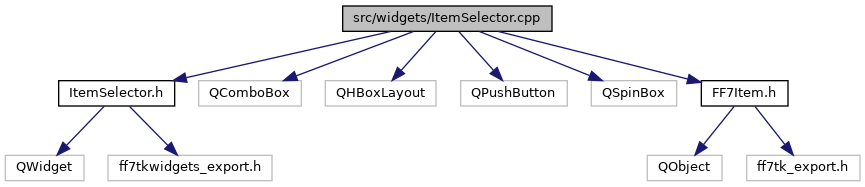
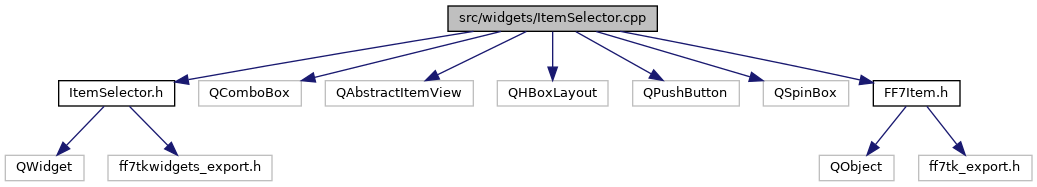
Deploying to gh-pages from @ sithlord48/ff7tk@d6258068dd9e8fa803aad83f0e25e3d419103174 🚀

diff --git a/ItemList_8h_source.html b/ItemList_8h_source.html
@@ -68,7 +68,7 @@ $(function() {
 <div class="title">ItemList.h</div>  </div>
 </div><!--header-->
 <div class="contents">
-<a href="ItemList_8h.html">Go to the documentation of this file.</a><div class="fragment"><div class="line"><a name="l00001"></a><span class="lineno">    1</span>&#160;<span class="comment">/****************************************************************************/</span></div><div class="line"><a name="l00002"></a><span class="lineno">    2</span>&#160;<span class="comment">//    copyright 2012 - 2022 Chris Rizzitello &lt;sithlord48@gmail.com&gt;         //</span></div><div class="line"><a name="l00003"></a><span class="lineno">    3</span>&#160;<span class="comment">//                                                                          //</span></div><div class="line"><a name="l00004"></a><span class="lineno">    4</span>&#160;<span class="comment">//    This file is part of FF7tk                                            //</span></div><div class="line"><a name="l00005"></a><span class="lineno">    5</span>&#160;<span class="comment">//                                                                          //</span></div><div class="line"><a name="l00006"></a><span class="lineno">    6</span>&#160;<span class="comment">//    FF7tk is free software: you can redistribute it and/or modify         //</span></div><div class="line"><a name="l00007"></a><span class="lineno">    7</span>&#160;<span class="comment">//    it under the terms of the GNU General Public License as published by  //</span></div><div class="line"><a name="l00008"></a><span class="lineno">    8</span>&#160;<span class="comment">//    the Free Software Foundation, either version 3 of the License, or     //</span></div><div class="line"><a name="l00009"></a><span class="lineno">    9</span>&#160;<span class="comment">//    (at your option) any later version.                                   //</span></div><div class="line"><a name="l00010"></a><span class="lineno">   10</span>&#160;<span class="comment">//                                                                          //</span></div><div class="line"><a name="l00011"></a><span class="lineno">   11</span>&#160;<span class="comment">//    FF7tk is distributed in the hope that it will be useful,              //</span></div><div class="line"><a name="l00012"></a><span class="lineno">   12</span>&#160;<span class="comment">//    but WITHOUT ANY WARRANTY; without even the implied warranty of        //</span></div><div class="line"><a name="l00013"></a><span class="lineno">   13</span>&#160;<span class="comment">//    MERCHANTABILITY or FITNESS FOR A PARTICULAR PURPOSE.  See the         //</span></div><div class="line"><a name="l00014"></a><span class="lineno">   14</span>&#160;<span class="comment">//    GNU General Public License for more details.                          //</span></div><div class="line"><a name="l00015"></a><span class="lineno">   15</span>&#160;<span class="comment">/****************************************************************************/</span></div><div class="line"><a name="l00016"></a><span class="lineno">   16</span>&#160;<span class="preprocessor">#pragma once</span></div><div class="line"><a name="l00017"></a><span class="lineno">   17</span>&#160;</div><div class="line"><a name="l00018"></a><span class="lineno">   18</span>&#160;<span class="preprocessor">#include &lt;QTableWidget&gt;</span></div><div class="line"><a name="l00019"></a><span class="lineno">   19</span>&#160;<span class="preprocessor">#include &lt;QEvent&gt;</span></div><div class="line"><a name="l00020"></a><span class="lineno">   20</span>&#160;</div><div class="line"><a name="l00021"></a><span class="lineno">   21</span>&#160;<span class="preprocessor">#ifndef ff7tkwidgets_export_h</span></div><div class="line"><a name="l00022"></a><span class="lineno">   22</span>&#160;<span class="preprocessor">    #include &lt;ff7tkwidgets_export.h&gt;</span></div><div class="line"><a name="l00023"></a><span class="lineno">   23</span>&#160;<span class="preprocessor">#endif</span></div><div class="line"><a name="l00024"></a><span class="lineno">   24</span>&#160;</div><div class="line"><a name="l00025"></a><span class="lineno">   25</span>&#160;<span class="keyword">class </span><a class="code" href="classItemPreview.html">ItemPreview</a>;</div><div class="line"><a name="l00026"></a><span class="lineno">   26</span>&#160;<span class="keyword">class </span><a class="code" href="classItemSelector.html">ItemSelector</a>;</div><div class="line"><a name="l00027"></a><span class="lineno">   27</span>&#160;</div><div class="line"><a name="l00028"></a><span class="lineno"><a class="line" href="classItemList.html">   28</a></span>&#160;<span class="keyword">class </span>FF7TKWIDGETS_EXPORT <a class="code" href="classItemList.html">ItemList</a> : <span class="keyword">public</span> QTableWidget</div><div class="line"><a name="l00029"></a><span class="lineno">   29</span>&#160;{</div><div class="line"><a name="l00030"></a><span class="lineno">   30</span>&#160;    Q_OBJECT</div><div class="line"><a name="l00031"></a><span class="lineno">   31</span>&#160;<span class="keyword">public</span>:</div><div class="line"><a name="l00032"></a><span class="lineno">   32</span>&#160;    <span class="keyword">explicit</span> <a class="code" href="classItemList.html">ItemList</a>(QWidget *parent = <span class="keyword">nullptr</span>);</div><div class="line"><a name="l00033"></a><span class="lineno">   33</span>&#160;<span class="keyword">protected</span>:</div><div class="line"><a name="l00034"></a><span class="lineno">   34</span>&#160;    <span class="keywordtype">bool</span> eventFilter(QObject *, QEvent *);</div><div class="line"><a name="l00035"></a><span class="lineno">   35</span>&#160;    <span class="keywordtype">void</span> changeEvent(QEvent *e);</div><div class="line"><a name="l00036"></a><span class="lineno">   36</span>&#160;signals:</div><div class="line"><a name="l00037"></a><span class="lineno">   37</span>&#160;    <span class="keywordtype">void</span> itemsChanged(QList&lt;quint16&gt; items);</div><div class="line"><a name="l00038"></a><span class="lineno">   38</span>&#160;<span class="keyword">public</span> slots:</div><div class="line"><a name="l00039"></a><span class="lineno">   39</span>&#160;    <span class="keywordtype">void</span> setItems(<span class="keyword">const</span> QList&lt;quint16&gt; &amp;items);</div><div class="line"><a name="l00040"></a><span class="lineno">   40</span>&#160;    <span class="keywordtype">void</span> setMaximumItemQty(<span class="keywordtype">int</span> maxQty);</div><div class="line"><a name="l00041"></a><span class="lineno">   41</span>&#160;    <span class="keywordtype">void</span> setEditableItemCombo(<span class="keywordtype">bool</span>);</div><div class="line"><a name="l00042"></a><span class="lineno">   42</span>&#160;<span class="keyword">private</span> slots:</div><div class="line"><a name="l00043"></a><span class="lineno">   43</span>&#160;    <span class="keywordtype">void</span> listSelectionChanged(<span class="keywordtype">int</span> row, <span class="keywordtype">int</span> colum, <span class="keywordtype">int</span> prevRow, <span class="keywordtype">int</span> prevColum);</div><div class="line"><a name="l00044"></a><span class="lineno">   44</span>&#160;    <span class="keywordtype">void</span> itemSelector_changed(quint16);</div><div class="line"><a name="l00045"></a><span class="lineno">   45</span>&#160;<span class="keyword">private</span>:</div><div class="line"><a name="l00046"></a><span class="lineno">   46</span>&#160;    <span class="keywordtype">void</span> itemupdate();</div><div class="line"><a name="l00047"></a><span class="lineno">   47</span>&#160;    <span class="keywordtype">void</span> updateItem(<span class="keywordtype">int</span> row);</div><div class="line"><a name="l00048"></a><span class="lineno">   48</span>&#160;    <span class="keywordtype">void</span> destroyTooltip();</div><div class="line"><a name="l00049"></a><span class="lineno">   49</span>&#160;    <span class="keywordtype">void</span> destroySelector();</div><div class="line"><a name="l00050"></a><span class="lineno">   50</span>&#160;    <a class="code" href="classItemSelector.html">ItemSelector</a> *itemSelector = <span class="keyword">nullptr</span>;</div><div class="line"><a name="l00051"></a><span class="lineno">   51</span>&#160;    <a class="code" href="classItemPreview.html">ItemPreview</a> *itemPreview = <span class="keyword">nullptr</span>;</div><div class="line"><a name="l00052"></a><span class="lineno">   52</span>&#160;    QList&lt;quint16&gt; itemlist;</div><div class="line"><a name="l00053"></a><span class="lineno">   53</span>&#160;    <span class="keywordtype">int</span> itemQtyLimit;</div><div class="line"><a name="l00054"></a><span class="lineno">   54</span>&#160;    <span class="keywordtype">bool</span> createdSelector;</div><div class="line"><a name="l00055"></a><span class="lineno">   55</span>&#160;    <span class="keywordtype">bool</span> createdTooltip;</div><div class="line"><a name="l00056"></a><span class="lineno">   56</span>&#160;    <span class="keywordtype">bool</span> editableItemCombo;</div><div class="line"><a name="l00057"></a><span class="lineno">   57</span>&#160;};</div><div class="ttc" id="classItemSelector_html"><div class="ttname"><a href="classItemSelector.html">ItemSelector</a></div><div class="ttdef"><b>Definition:</b> ItemSelector.h:28</div></div>
+<a href="ItemList_8h.html">Go to the documentation of this file.</a><div class="fragment"><div class="line"><a name="l00001"></a><span class="lineno">    1</span>&#160;<span class="comment">/****************************************************************************/</span></div><div class="line"><a name="l00002"></a><span class="lineno">    2</span>&#160;<span class="comment">//    copyright 2012 - 2022 Chris Rizzitello &lt;sithlord48@gmail.com&gt;         //</span></div><div class="line"><a name="l00003"></a><span class="lineno">    3</span>&#160;<span class="comment">//                                                                          //</span></div><div class="line"><a name="l00004"></a><span class="lineno">    4</span>&#160;<span class="comment">//    This file is part of FF7tk                                            //</span></div><div class="line"><a name="l00005"></a><span class="lineno">    5</span>&#160;<span class="comment">//                                                                          //</span></div><div class="line"><a name="l00006"></a><span class="lineno">    6</span>&#160;<span class="comment">//    FF7tk is free software: you can redistribute it and/or modify         //</span></div><div class="line"><a name="l00007"></a><span class="lineno">    7</span>&#160;<span class="comment">//    it under the terms of the GNU General Public License as published by  //</span></div><div class="line"><a name="l00008"></a><span class="lineno">    8</span>&#160;<span class="comment">//    the Free Software Foundation, either version 3 of the License, or     //</span></div><div class="line"><a name="l00009"></a><span class="lineno">    9</span>&#160;<span class="comment">//    (at your option) any later version.                                   //</span></div><div class="line"><a name="l00010"></a><span class="lineno">   10</span>&#160;<span class="comment">//                                                                          //</span></div><div class="line"><a name="l00011"></a><span class="lineno">   11</span>&#160;<span class="comment">//    FF7tk is distributed in the hope that it will be useful,              //</span></div><div class="line"><a name="l00012"></a><span class="lineno">   12</span>&#160;<span class="comment">//    but WITHOUT ANY WARRANTY; without even the implied warranty of        //</span></div><div class="line"><a name="l00013"></a><span class="lineno">   13</span>&#160;<span class="comment">//    MERCHANTABILITY or FITNESS FOR A PARTICULAR PURPOSE.  See the         //</span></div><div class="line"><a name="l00014"></a><span class="lineno">   14</span>&#160;<span class="comment">//    GNU General Public License for more details.                          //</span></div><div class="line"><a name="l00015"></a><span class="lineno">   15</span>&#160;<span class="comment">/****************************************************************************/</span></div><div class="line"><a name="l00016"></a><span class="lineno">   16</span>&#160;<span class="preprocessor">#pragma once</span></div><div class="line"><a name="l00017"></a><span class="lineno">   17</span>&#160;</div><div class="line"><a name="l00018"></a><span class="lineno">   18</span>&#160;<span class="preprocessor">#include &lt;QTableWidget&gt;</span></div><div class="line"><a name="l00019"></a><span class="lineno">   19</span>&#160;<span class="preprocessor">#include &lt;QEvent&gt;</span></div><div class="line"><a name="l00020"></a><span class="lineno">   20</span>&#160;</div><div class="line"><a name="l00021"></a><span class="lineno">   21</span>&#160;<span class="preprocessor">#ifndef ff7tkwidgets_export_h</span></div><div class="line"><a name="l00022"></a><span class="lineno">   22</span>&#160;<span class="preprocessor">    #include &lt;ff7tkwidgets_export.h&gt;</span></div><div class="line"><a name="l00023"></a><span class="lineno">   23</span>&#160;<span class="preprocessor">#endif</span></div><div class="line"><a name="l00024"></a><span class="lineno">   24</span>&#160;</div><div class="line"><a name="l00025"></a><span class="lineno">   25</span>&#160;<span class="keyword">class </span><a class="code" href="classItemPreview.html">ItemPreview</a>;</div><div class="line"><a name="l00026"></a><span class="lineno">   26</span>&#160;<span class="keyword">class </span><a class="code" href="classItemSelector.html">ItemSelector</a>;</div><div class="line"><a name="l00027"></a><span class="lineno">   27</span>&#160;</div><div class="line"><a name="l00028"></a><span class="lineno"><a class="line" href="classItemList.html">   28</a></span>&#160;<span class="keyword">class </span>FF7TKWIDGETS_EXPORT <a class="code" href="classItemList.html">ItemList</a> : <span class="keyword">public</span> QTableWidget</div><div class="line"><a name="l00029"></a><span class="lineno">   29</span>&#160;{</div><div class="line"><a name="l00030"></a><span class="lineno">   30</span>&#160;    Q_OBJECT</div><div class="line"><a name="l00031"></a><span class="lineno">   31</span>&#160;<span class="keyword">public</span>:</div><div class="line"><a name="l00032"></a><span class="lineno">   32</span>&#160;    <span class="keyword">explicit</span> <a class="code" href="classItemList.html">ItemList</a>(QWidget *parent = <span class="keyword">nullptr</span>);</div><div class="line"><a name="l00033"></a><span class="lineno">   33</span>&#160;<span class="keyword">protected</span>:</div><div class="line"><a name="l00034"></a><span class="lineno">   34</span>&#160;    <span class="keywordtype">bool</span> eventFilter(QObject *, QEvent *);</div><div class="line"><a name="l00035"></a><span class="lineno">   35</span>&#160;    <span class="keywordtype">void</span> changeEvent(QEvent *e);</div><div class="line"><a name="l00036"></a><span class="lineno">   36</span>&#160;signals:</div><div class="line"><a name="l00037"></a><span class="lineno">   37</span>&#160;    <span class="keywordtype">void</span> itemsChanged(QList&lt;quint16&gt; items);</div><div class="line"><a name="l00038"></a><span class="lineno">   38</span>&#160;<span class="keyword">public</span> slots:</div><div class="line"><a name="l00039"></a><span class="lineno">   39</span>&#160;    <span class="keywordtype">void</span> setItems(<span class="keyword">const</span> QList&lt;quint16&gt; &amp;items);</div><div class="line"><a name="l00040"></a><span class="lineno">   40</span>&#160;    <span class="keywordtype">void</span> setMaximumItemQty(<span class="keywordtype">int</span> maxQty);</div><div class="line"><a name="l00041"></a><span class="lineno">   41</span>&#160;    <span class="keywordtype">void</span> setEditableItemCombo(<span class="keywordtype">bool</span>);</div><div class="line"><a name="l00042"></a><span class="lineno">   42</span>&#160;<span class="keyword">private</span> slots:</div><div class="line"><a name="l00043"></a><span class="lineno">   43</span>&#160;    <span class="keywordtype">void</span> listSelectionChanged(<span class="keywordtype">int</span> row, <span class="keywordtype">int</span> colum, <span class="keywordtype">int</span> prevRow, <span class="keywordtype">int</span> prevColum);</div><div class="line"><a name="l00044"></a><span class="lineno">   44</span>&#160;    <span class="keywordtype">void</span> itemSelector_changed(quint16);</div><div class="line"><a name="l00045"></a><span class="lineno">   45</span>&#160;<span class="keyword">private</span>:</div><div class="line"><a name="l00046"></a><span class="lineno">   46</span>&#160;    <span class="keywordtype">void</span> itemupdate();</div><div class="line"><a name="l00047"></a><span class="lineno">   47</span>&#160;    <span class="keywordtype">void</span> updateItem(<span class="keywordtype">int</span> row);</div><div class="line"><a name="l00048"></a><span class="lineno">   48</span>&#160;    <span class="keywordtype">void</span> destroyTooltip();</div><div class="line"><a name="l00049"></a><span class="lineno">   49</span>&#160;    <span class="keywordtype">void</span> destroySelector();</div><div class="line"><a name="l00050"></a><span class="lineno">   50</span>&#160;    <a class="code" href="classItemSelector.html">ItemSelector</a> *itemSelector = <span class="keyword">nullptr</span>;</div><div class="line"><a name="l00051"></a><span class="lineno">   51</span>&#160;    <a class="code" href="classItemPreview.html">ItemPreview</a> *itemPreview = <span class="keyword">nullptr</span>;</div><div class="line"><a name="l00052"></a><span class="lineno">   52</span>&#160;    QList&lt;quint16&gt; itemlist;</div><div class="line"><a name="l00053"></a><span class="lineno">   53</span>&#160;    <span class="keywordtype">int</span> itemQtyLimit;</div><div class="line"><a name="l00054"></a><span class="lineno">   54</span>&#160;    <span class="keywordtype">bool</span> createdSelector;</div><div class="line"><a name="l00055"></a><span class="lineno">   55</span>&#160;    <span class="keywordtype">bool</span> createdTooltip;</div><div class="line"><a name="l00056"></a><span class="lineno">   56</span>&#160;    <span class="keywordtype">bool</span> editableItemCombo = <span class="keyword">false</span>;</div><div class="line"><a name="l00057"></a><span class="lineno">   57</span>&#160;};</div><div class="ttc" id="classItemSelector_html"><div class="ttname"><a href="classItemSelector.html">ItemSelector</a></div><div class="ttdef"><b>Definition:</b> ItemSelector.h:28</div></div>
 <div class="ttc" id="classItemList_html"><div class="ttname"><a href="classItemList.html">ItemList</a></div><div class="ttdef"><b>Definition:</b> ItemList.h:28</div></div>
 <div class="ttc" id="classItemPreview_html"><div class="ttname"><a href="classItemPreview.html">ItemPreview</a></div><div class="ttdef"><b>Definition:</b> ItemPreview.h:29</div></div>
 </div><!-- fragment --></div><!-- contents -->

diff --git a/ItemSelector_8cpp.html b/ItemSelector_8cpp.html
@@ -70,6 +70,7 @@ $(function() {
 <div class="contents">
 <div class="textblock"><code>#include &lt;<a class="el" href="ItemSelector_8h_source.html">ItemSelector.h</a>&gt;</code><br />
 <code>#include &lt;QComboBox&gt;</code><br />
+<code>#include &lt;QAbstractItemView&gt;</code><br />
 <code>#include &lt;QHBoxLayout&gt;</code><br />
 <code>#include &lt;QPushButton&gt;</code><br />
 <code>#include &lt;QSpinBox&gt;</code><br />
@@ -80,7 +81,7 @@ Include dependency graph for ItemSelector.cpp:</div>
 <div class="center"><img src="ItemSelector_8cpp__incl.png" border="0" usemap="#src_2widgets_2ItemSelector_8cpp" alt=""/></div>
 <map name="src_2widgets_2ItemSelector_8cpp" id="src_2widgets_2ItemSelector_8cpp">
 <area shape="rect" id="node2" href="ItemSelector_8h.html" title="ItemSelector.h" alt="" coords="59,80,175,107"/>
-<area shape="rect" id="node9" href="FF7Item_8h.html" title="FF7Item.h" alt="" coords="701,80,788,107"/>
+<area shape="rect" id="node10" href="FF7Item_8h.html" title="FF7Item.h" alt="" coords="873,80,960,107"/>
 </map>
 </div>
 </div></div><!-- contents -->
